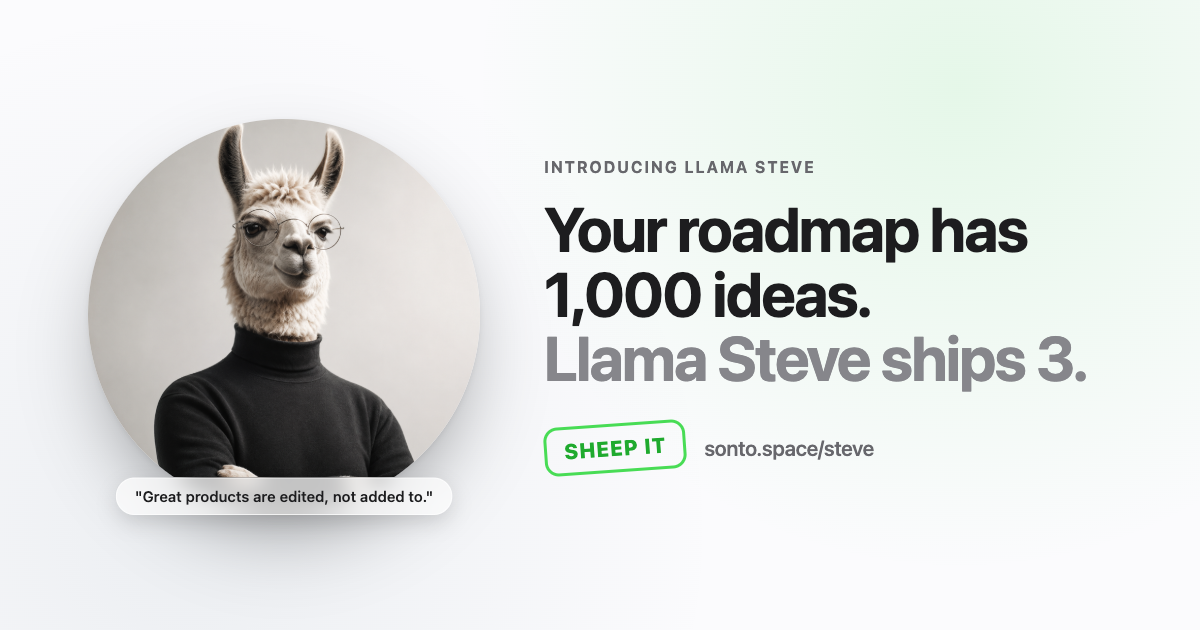
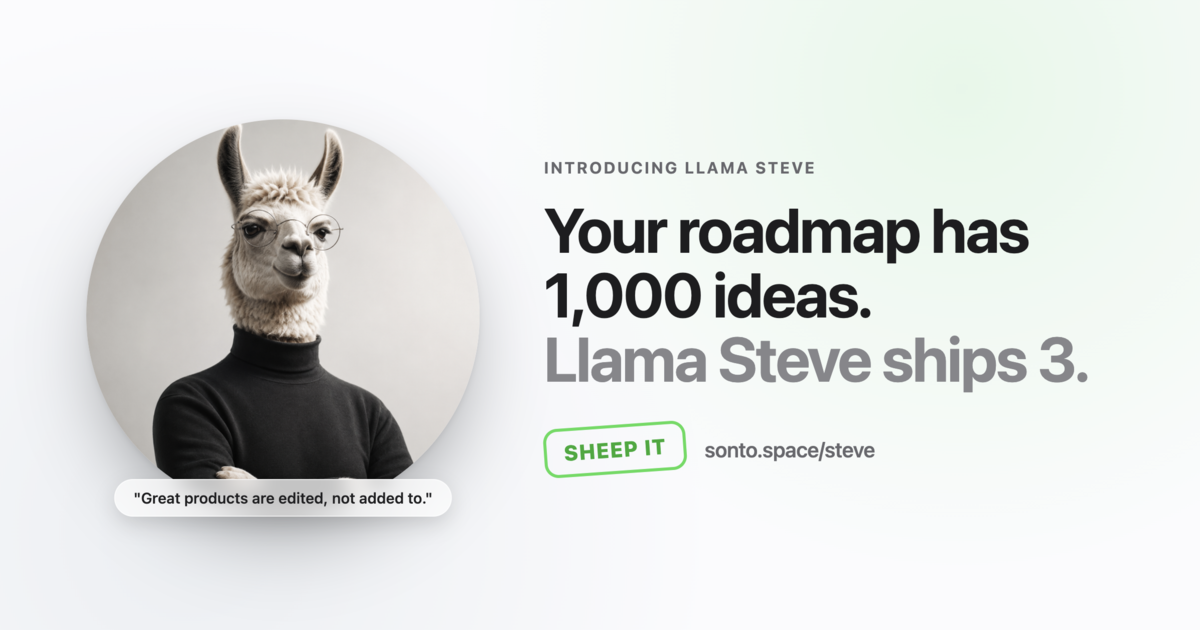
feat: custom OG image (1200x630) + og:image:width/height/secure_url for linkedin; real-result label

diff --git a/assets/llama-steve.css b/assets/llama-steve.css
@@ -119,6 +119,8 @@
 
   /* ---------- the output demo ---------- */
   .out-head{text-align:center;margin-bottom:46px}
+  .real-tag{display:inline-flex;align-items:center;gap:8px;margin-top:18px;font-size:13px;color:var(--ink-3);font-weight:500}
+  .real-tag .rpip{width:7px;height:7px;border-radius:50%;background:var(--green);box-shadow:0 0 0 4px rgba(72,220,85,.18)}
   .out-head .sec-sub{margin:14px auto 0}
   .terminal{
     border-radius:var(--r);overflow:hidden;border:1px solid var(--line-2);